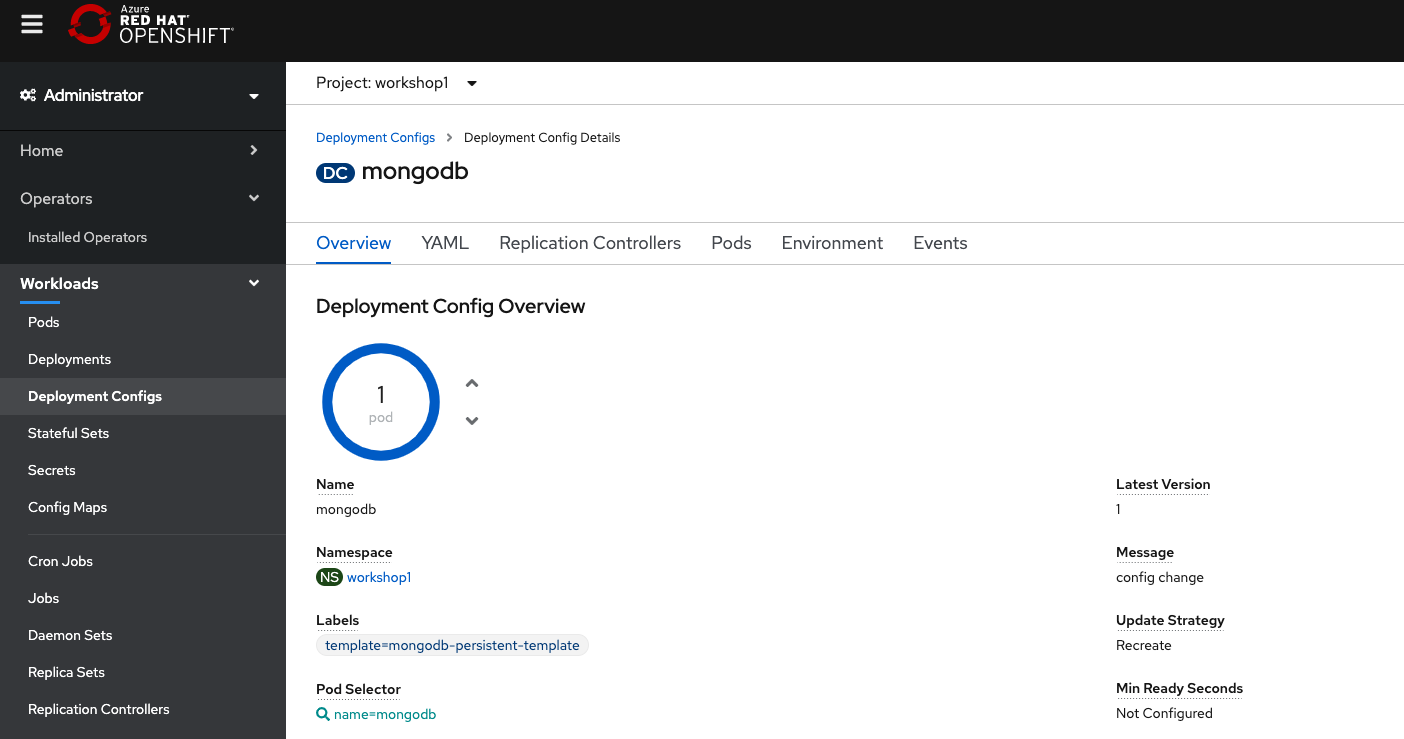
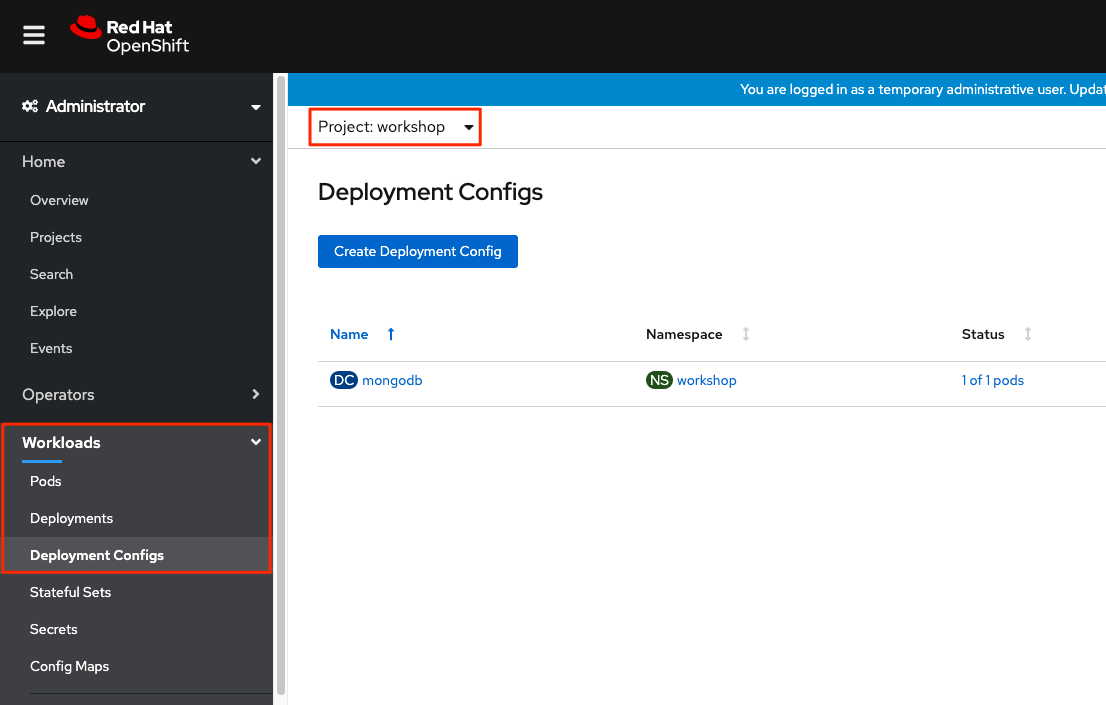
udpate

diff --git a/index.html b/index.html
@@ -329,28 +329,38 @@
 
             <h3 id="azure-subscription-and-azure-red-hat-openshift-environment">Azure subscription and Azure Red Hat OpenShift environment</h3>
 
-<details>
-  <summary>Click to expand!</summary>
+<!-- Begin collapsible container div -->
+<div class="collapsible-content-container">
+  <!-- Begin collapsible container button -->
+  <button class="toggle-collapsible">Toggle</button>
+  <!-- Begin collapsible container content div -->
+  <div class="collapsible-content">
+    <!-- Begin parsedText -->
+    
+<p>If you have been provided with a Microsoft Hands-on Labs environment for this workshop through a registration link and an activation code, please continue to registration and activate the lab.</p>
 
-If you have been provided with a Microsoft Hands-on Labs environment for this workshop through a registration link and an activation code, please continue to registration and activate the lab.
+<p><img src="media/managedlab/0-registration.png" alt="Registration" /></p>
 
-![Registration](media/managedlab/0-registration.png)
+<p>After you complete the registration, click Launch Lab</p>
 
-After you complete the registration, click Launch Lab
+<p><img src="media/managedlab/1-launchlab.png" alt="Launch lab" /></p>
 
-![Launch lab](media/managedlab/1-launchlab.png)
+<p>The Azure subscription and associated lab credentials will be provisioned. This will take a few moments. This process will also provision an Azure Red Hat OpenShift cluster.</p>
 
-The Azure subscription and associated lab credentials will be provisioned. This will take a few moments. This process will also provision an Azure Red Hat OpenShift cluster.
+<p><img src="media/managedlab/2-preparinglab.png" alt="Preparing lab" /></p>
 
-![Preparing lab](media/managedlab/2-preparinglab.png)
+<p>Once the environment is provisioned, a screen with all the appropriate lab credentials will be presented. Additionally, you’ll have your Azure Red Hat OpenShift cluster endpoint. The credentials will also be emailed to the email address entered at registration.</p>
 
-Once the environment is provisioned, a screen with all the appropriate lab credentials will be presented. Additionally, you'll have your Azure Red Hat OpenShift cluster endpoint. The credentials will also be emailed to the email address entered at registration.
+<p><img src="media/managedlab/3-credentials.png" alt="Credentials" /></p>
 
-![Credentials](media/managedlab/3-credentials.png)
+<p>You can now skip the <strong>Create cluster</strong> section and jump to <a href="#createproject">create project</a>.</p>
 
-You can now skip the **Create cluster** section and jump to [create project](#createproject).
 
-</details>
+    <!-- End parsedText -->
+  </div>
+  <!-- End collapsible container content div -->
+</div>
+<!-- End collapsible container div -->
 
 <h3 id="tools">Tools</h3>
 
@@ -993,7 +1003,7 @@ If you choose to specify a custom domain, for example <strong>foo.example.com</s
   <p><strong>Note</strong> Make sure you complete the <a href="#prereq">prerequisites</a> to install the OpenShift CLI on the Azure Cloud Shell.</p>
 </blockquote>
 
-<p>Once you’re logged into the Web Console, click on the username on the top right, then click <strong>Copy login command</strong>.</p>
+<p>Once you’re logged into the Web Console, click on the username on the top right, then click <strong>Copy Login Command</strong>.</p>
 
 <p><img src="media/login-command.png" alt="Copy login command link" /></p>
 
@@ -1054,7 +1064,7 @@ If you choose to specify a custom domain, for example <strong>foo.example.com</s
                     <h2>Deploy MongoDB</h2>
                 
 
-            <h3 id="create-mongodb-from-template">Create mongoDB from template</h3>
+            <h3 id="create-mongodb-from-template">Create MongoDB from template</h3>
 
 <!-- Begin collapsible container div -->
 <div class="collapsible-content-container">
@@ -1083,7 +1093,7 @@ If you choose to specify a custom domain, for example <strong>foo.example.com</s
 </code></pre></div>  </div>
 </blockquote>
 
-<p>Create a mongoDB deployment using the <code class="language-plaintext highlighter-rouge">mongodb-persistent</code> template. You’re passing in the values to be replaced (username, password and database) which generates a YAML/JSON file. You then pipe it to the <code class="language-plaintext highlighter-rouge">oc create</code> command.</p>
+<p>Create a MongoDB deployment using the <code class="language-plaintext highlighter-rouge">mongodb-persistent</code> template. You’re passing in the values to be replaced (username, password and database) which generates a YAML/JSON file. You then pipe it to the <code class="language-plaintext highlighter-rouge">oc create</code> command.</p>
 
 <div class="language-sh highlighter-rouge"><div class="highlight"><pre class="highlight"><code>oc process openshift//mongodb-persistent <span class="se">\</span>
     <span class="nt">-p</span> <span class="nv">MONGODB_USER</span><span class="o">=</span>ratingsuser <span class="se">\</span>
@@ -1092,7 +1102,7 @@ If you choose to specify a custom domain, for example <strong>foo.example.com</s
     <span class="nt">-p</span> <span class="nv">MONGODB_ADMIN_PASSWORD</span><span class="o">=</span>ratingspassword | oc create <span class="nt">-f</span> -
 </code></pre></div></div>
 
-<p>If you now head back to the web console, you should see a new deployment for mongoDB.</p>
+<p>If you now head back to the web console and navigate to <strong>Workloads &gt; Deployment Configs</strong>, you should see a new entry for mongoDB. Make sure you select <strong>Project: workshop</strong> near the top of the page as well, if you have not already done so.</p>
 
 <p><img src="media/mongodb-overview.png" alt="MongoDB deployment" /></p>
 
@@ -1103,7 +1113,7 @@ If you choose to specify a custom domain, for example <strong>foo.example.com</s
 </div>
 <!-- End collapsible container div -->
 
-<h3 id="verify-if-the-mongodb-pod-was-created-successfully">Verify if the mongoDB pod was created successfully</h3>
+<h3 id="verify-if-the-mongodb-pod-was-created-successfully">Verify if the MongoDB pod was created successfully</h3>
 
 <!-- Begin collapsible container div -->
 <div class="collapsible-content-container">
@@ -1127,7 +1137,7 @@ If you choose to specify a custom domain, for example <strong>foo.example.com</s
 </div>
 <!-- End collapsible container div -->
 
-<h3 id="retrieve-mongodb-service-hostname">Retrieve mongoDB service hostname</h3>
+<h3 id="retrieve-mongodb-service-hostname">Retrieve MongoDB service hostname</h3>
 
 <!-- Begin collapsible container div -->
 <div class="collapsible-content-container">
@@ -1137,7 +1147,7 @@ If you choose to specify a custom domain, for example <strong>foo.example.com</s
   <div class="collapsible-content">
     <!-- Begin parsedText -->
     
-<p>Find the mongoDB service.</p>
+<p>Find the MongoDB service.</p>
 
 <div class="language-sh highlighter-rouge"><div class="highlight"><pre class="highlight"><code>oc get svc mongodb
 </code></pre></div></div>
@@ -1146,7 +1156,7 @@ If you choose to specify a custom domain, for example <strong>foo.example.com</s
 
 <p>The service will be accessible at the following DNS name: <code class="language-plaintext highlighter-rouge">mongodb.workshop.svc.cluster.local</code> which is formed of <code class="language-plaintext highlighter-rouge">[service name].[project name].svc.cluster.local</code>. This resolves only within the cluster.</p>
 
-<p>You can also retrieve this from the web console. You’ll need this hostname to configure the <code class="language-plaintext highlighter-rouge">rating-api</code>.</p>
+<p>You can also retrieve this from the web console by going to **. You’ll need this hostname to configure the <code class="language-plaintext highlighter-rouge">rating-api</code>.</p>
 
 <p><img src="media/mongo-svc-webconsole.png" alt="MongoDB service in the Web Console" /></p>
 
